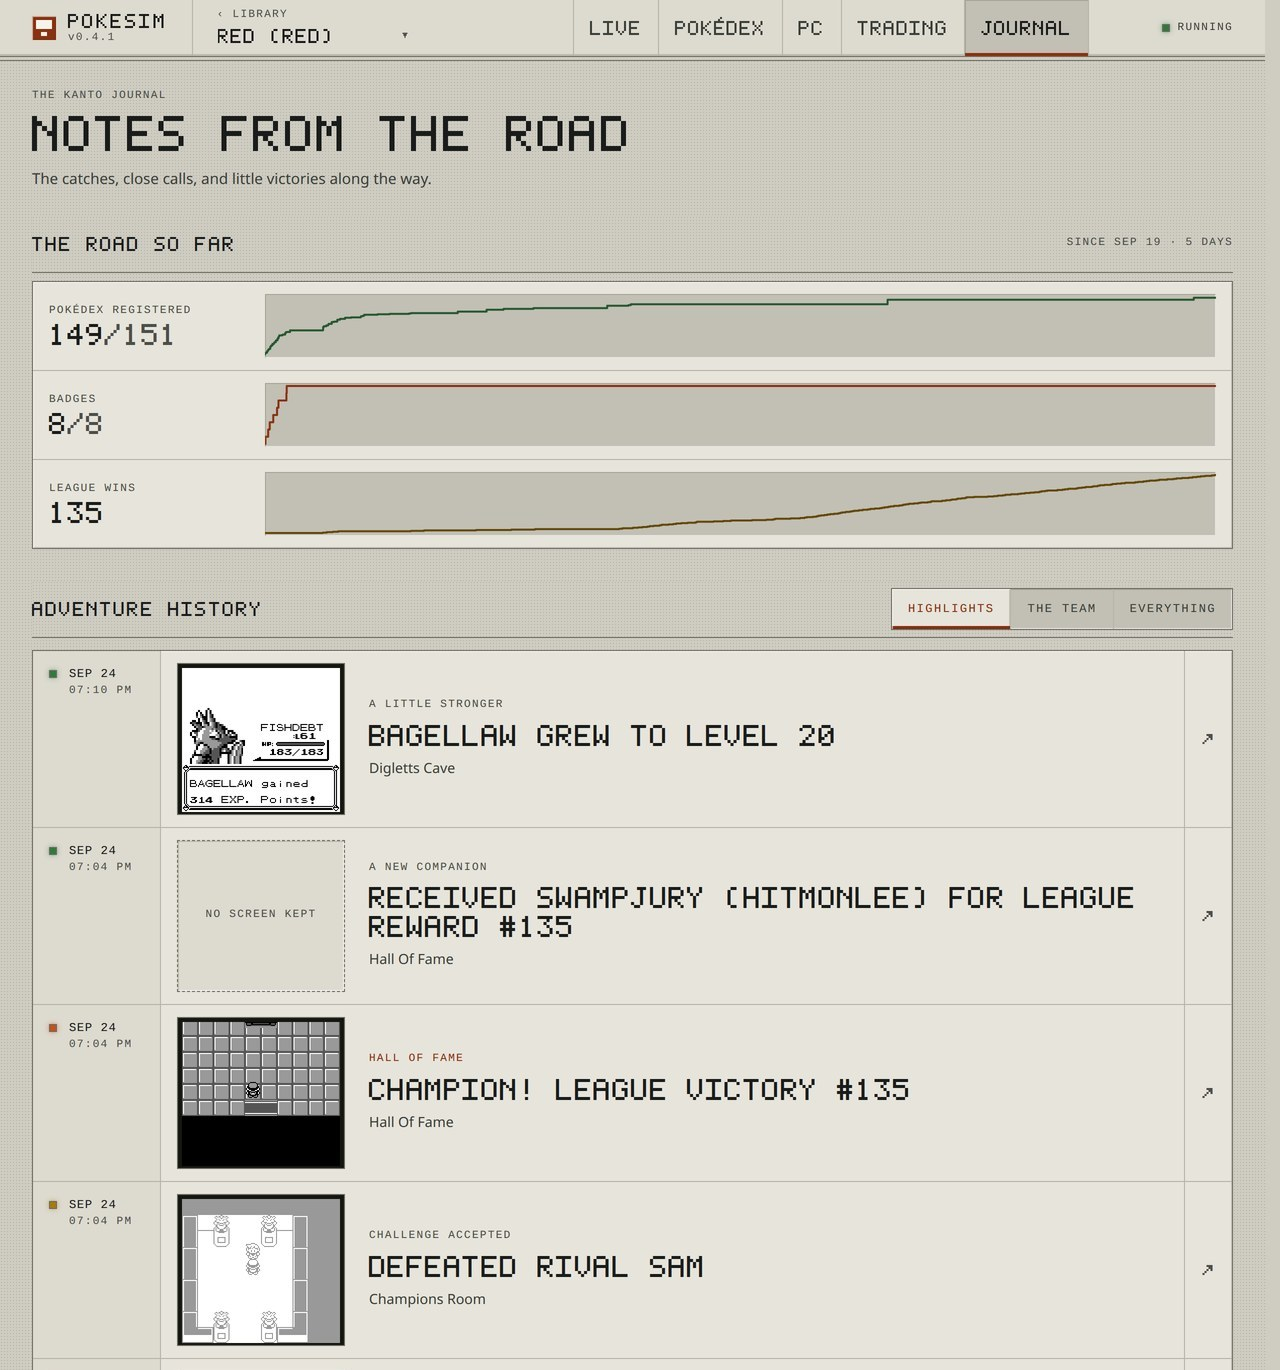
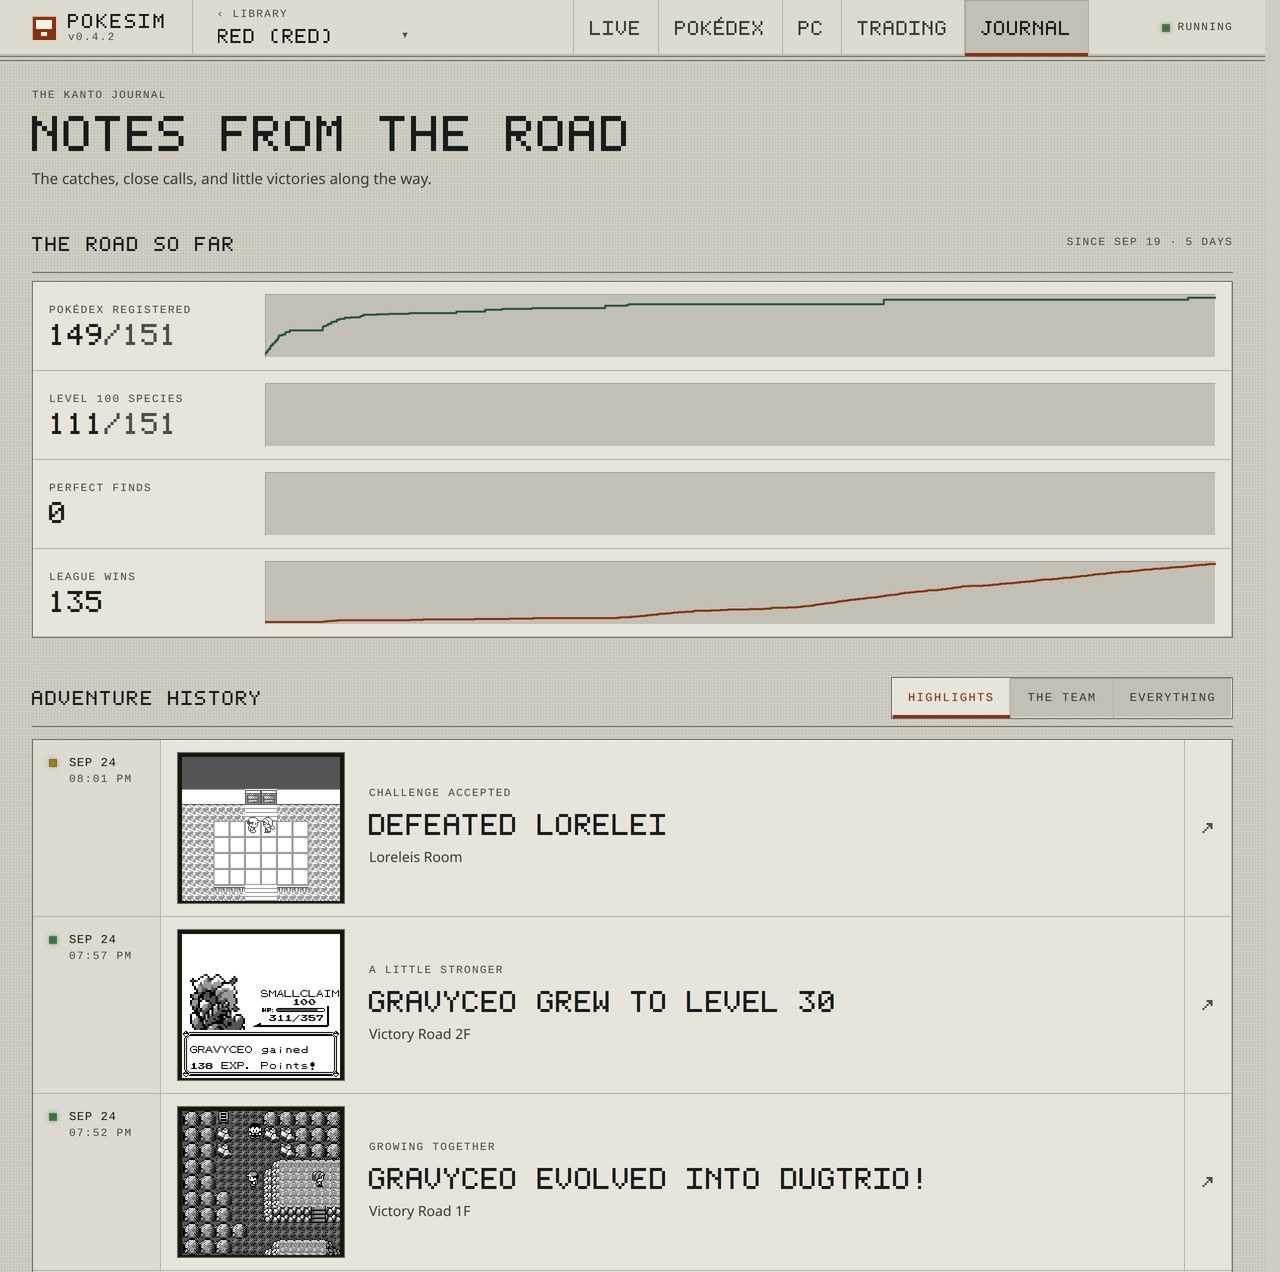
Retake the Journal and Pokédex screenshots for 0.4.2

diff --git a/README.md b/README.md
@@ -28,7 +28,7 @@ It decides everything locally with ordinary game logic. No model API key, no sub
 
 Browse all 151 Kanto entries, search by name or type, and see who's registered, who's only been spotted, and who's still out there somewhere. Fill it and the counts keep going: how many have reached level 100, and how many turned out to be perfect.
 
-![The Pokédex showing 149 of 151 registered and 150 seen, 2,209 catches, level 100 and perfect find counts, search and filter options, and the original Kanto starters](docs/images/pokedex.jpg)
+![The Pokédex showing 149 of 151 registered and 150 seen, 2,232 catches, level 100 and perfect find counts, search and filter options, and the original Kanto starters](docs/images/pokedex.jpg)
 
 *Two short of a full Pokédex, 111 species at level 100, and not one perfect catch yet. One more reason to check back.*
 
